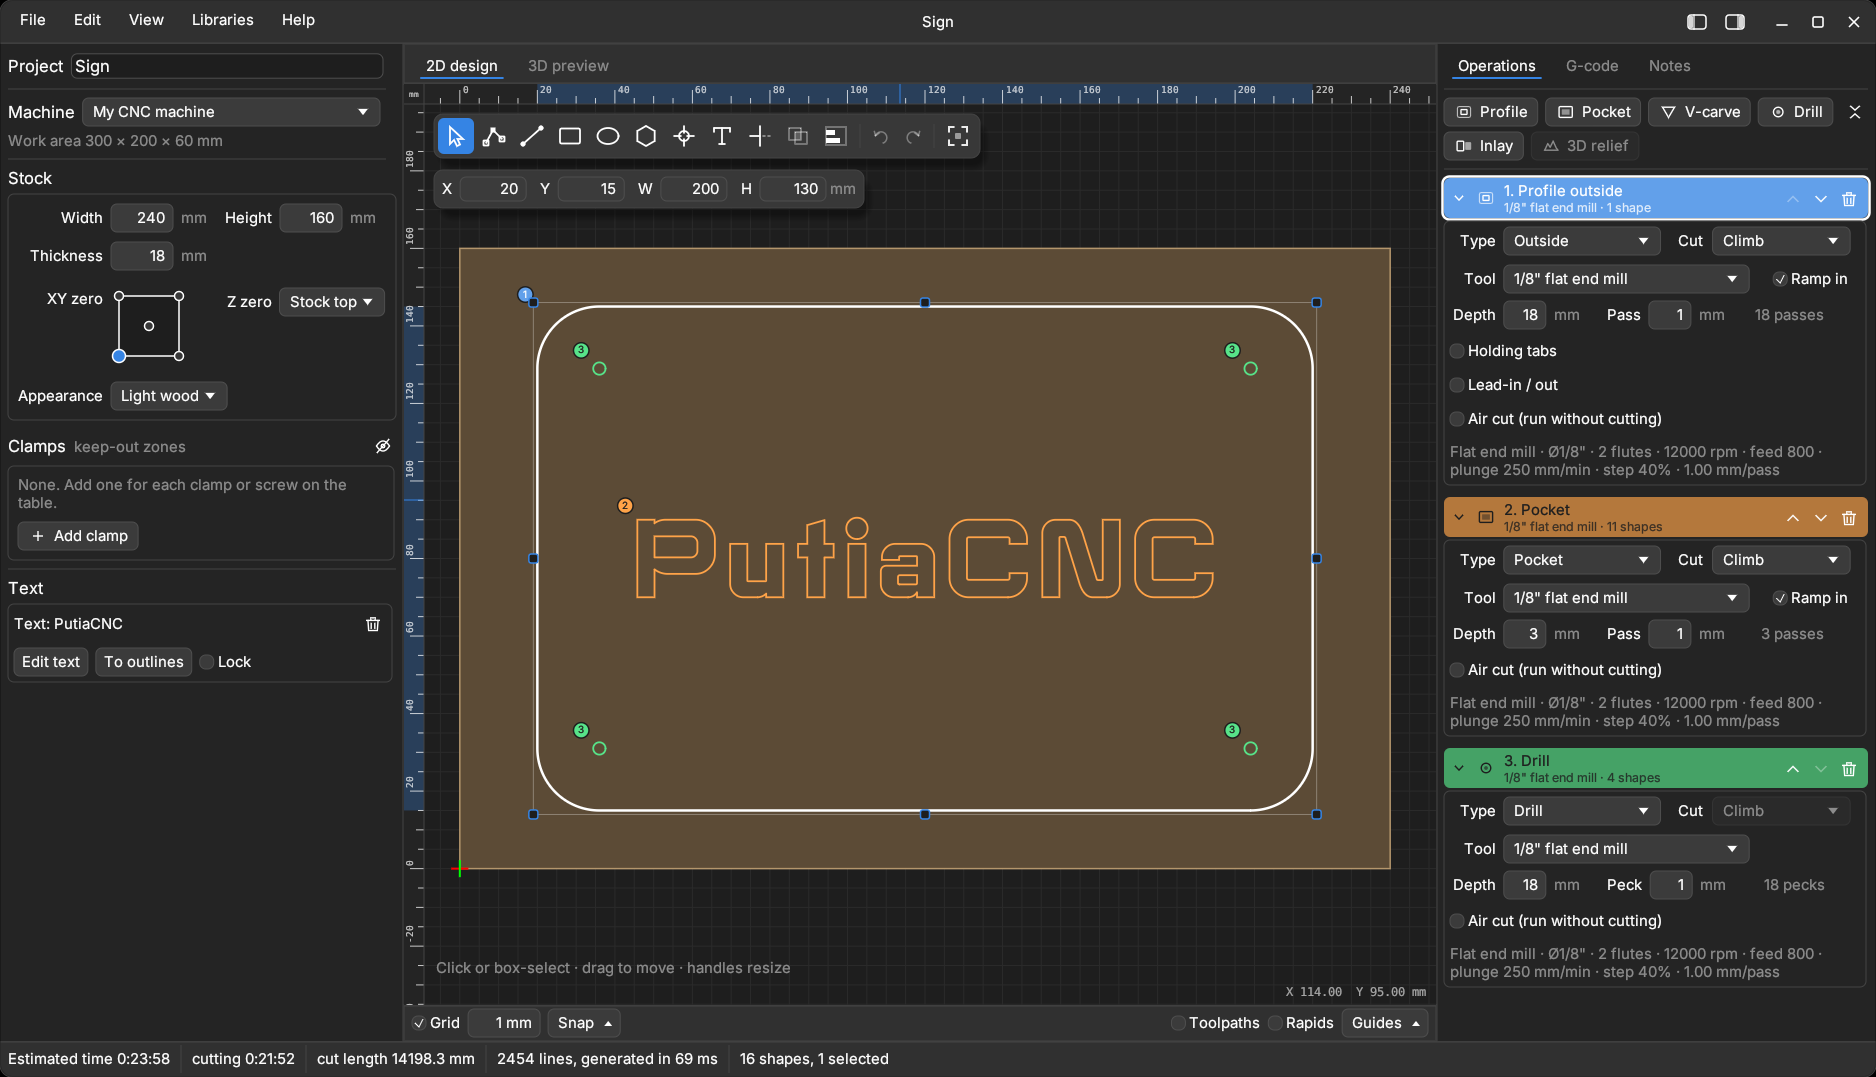
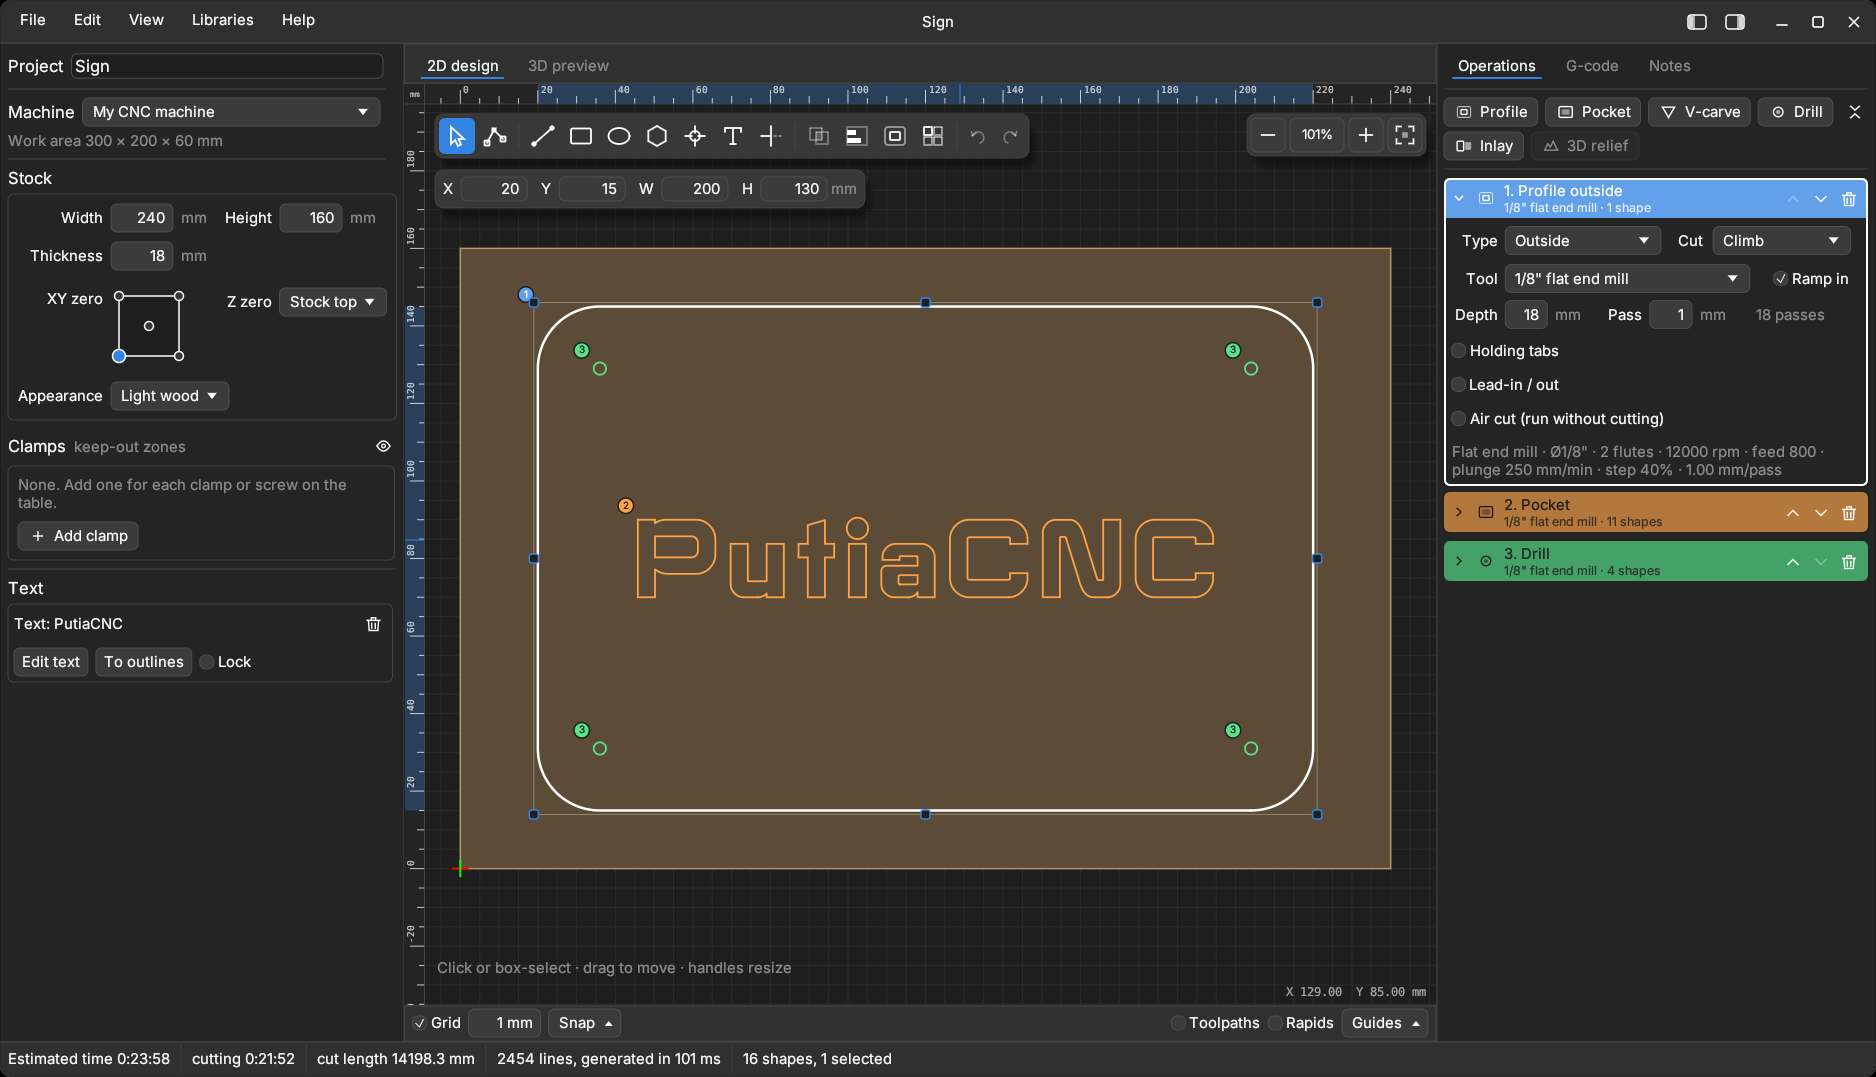
README 2D screenshot: only operation 1 open; PUTIACNC_HIDE can also hide the machine area and toolpaths
Claude-Session: https://claude.ai/code/session_01J6kk3u45i17Q6y9jCcitHw

diff --git a/gui/src/app/mod.rs b/gui/src/app/mod.rs
@@ -268,7 +268,7 @@ impl App {
         a.sync_tools();
         a.sync_machine();
         a.modified = false;
-        if let Ok(h) = std::env::var("PUTIACNC_HIDE") { a.show_left = !h.contains("left"); a.show_right = !h.contains("right"); }
+        if let Ok(h) = std::env::var("PUTIACNC_HIDE") { a.show_left = !h.contains("left"); a.show_right = !h.contains("right"); a.show_machine_area = !h.contains("machine"); if h.contains("toolpaths") { a.show_toolpath = false; } }
         if std::env::var_os("PUTIACNC_SHOW_CONFIRM").is_some() { a.modified = true; a.pending = Some(Action::Quit); }
         if std::env::var("PUTIACNC_VIEW").is_ok_and(|v| v == "3d") { a.view_tab = crate::view3d::ViewTab::Preview; }
         if let Ok(f) = std::env::var("PUTIACNC_PLAY") { a.v3.init_frac = f.parse().ok(); }

diff --git a/docs/testing.md b/docs/testing.md
@@ -46,7 +46,7 @@ variables below, and can be repeated. The same variables work when you start the
 | `PUTIACNC_VIEW=3d` | Opens the 3D preview. |
 | `PUTIACNC_PLAY=0..1`, `PUTIACNC_SPEED=n`, `PUTIACNC_T_FILE=path` | Playback position, speed index, or a file whose number sets the time. |
 | `PUTIACNC_ZOOM=f` | Scales the 3D camera distance. |
-| `PUTIACNC_HIDE=left,right` | Hides side panels. |
+| `PUTIACNC_HIDE=left,right,machine,toolpaths` | Hides the side panels, the machine area outline, or the toolpath lines (any mix). |
 | `PUTIACNC_SELECT=1,4,7` / `PUTIACNC_SELECT_ALL` | Selects shapes by index (no expansion to their group). |
 | `PUTIACNC_SHOW_*` (`ABOUT`, `ALIGN`, `ARRAY`, `CHECKS`, `CLEAN`, `COMBINE`, `CONFIRM`, `CORNERS`, `ERR`, `MACHINES`, `OFFSET`, `SHORTCUTS`, `TEXT`, `TOOLS`, `UPDATE`) | Opens that dialog or popover. |
 | `PUTIACNC_TAB_GCODE`, `PUTIACNC_TAB_NOTES`, `PUTIACNC_COLLAPSE=1,2` | Right panel tab; folds operations by number. |
